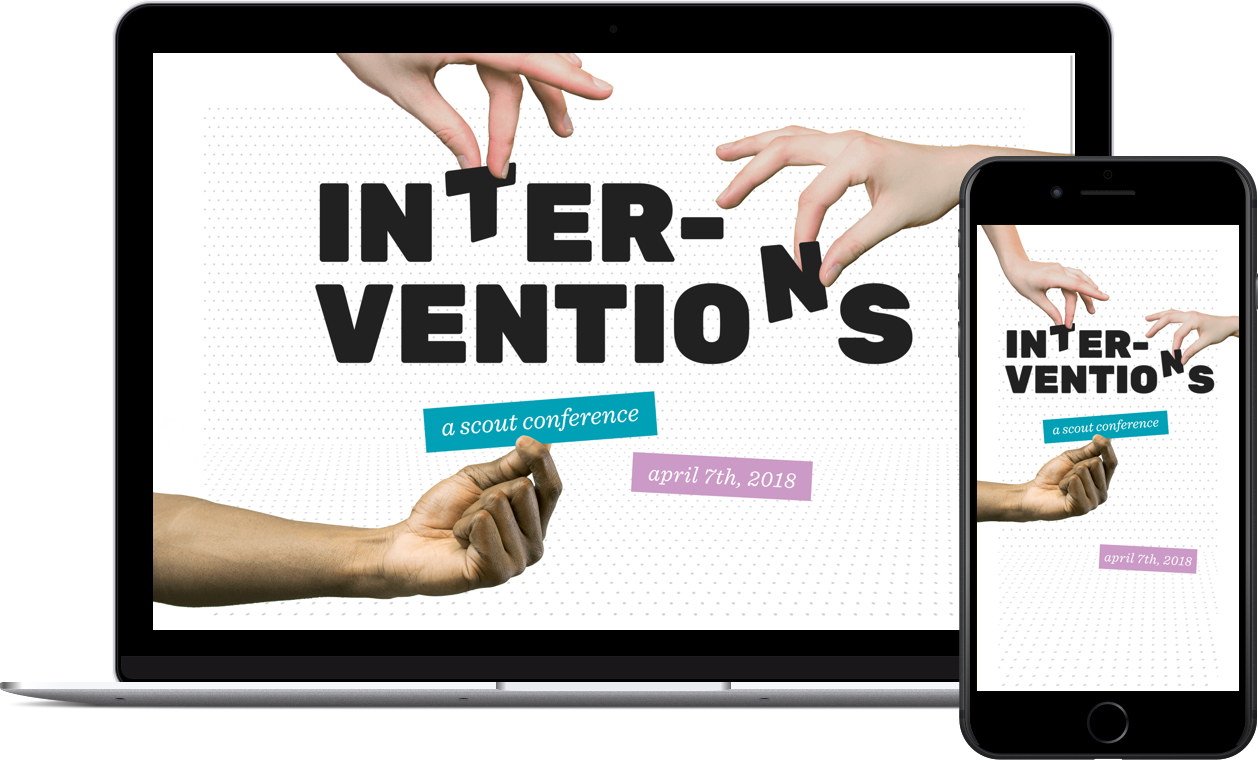
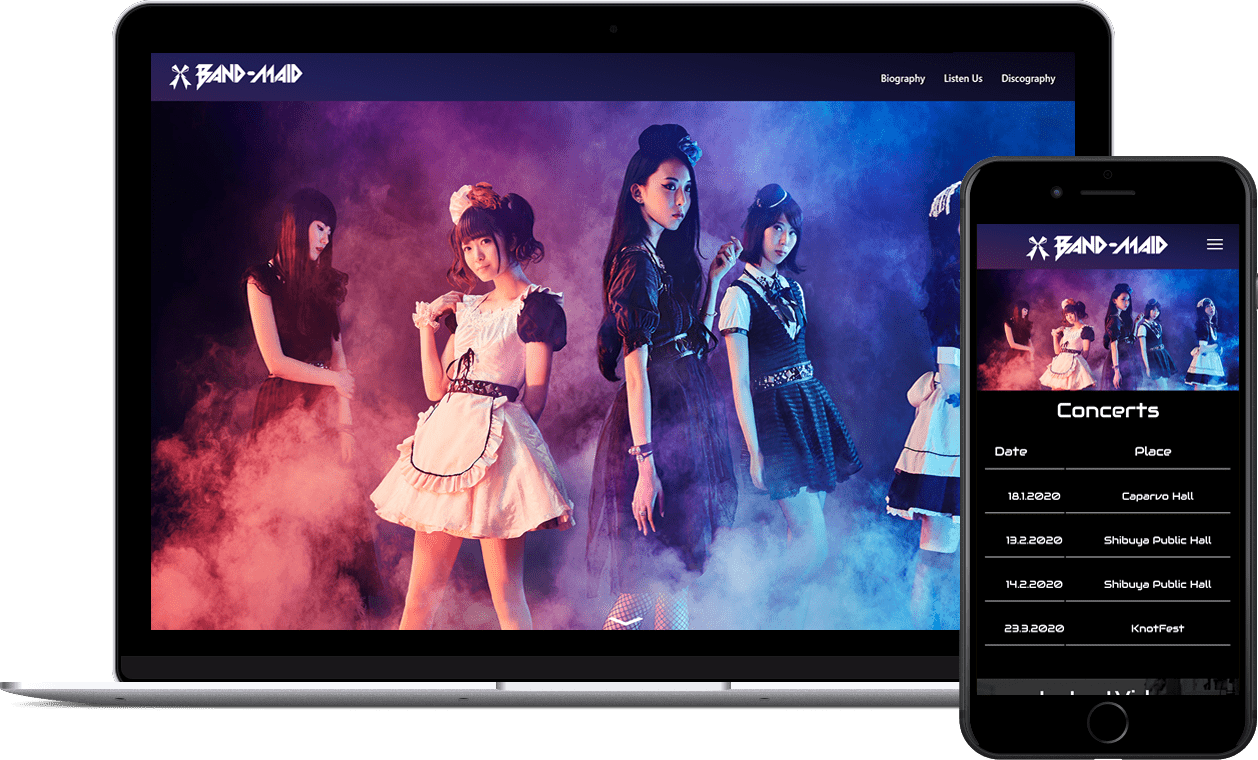
nuevo proyecto

diff --git a/index.html b/index.html
@@ -1,67 +1,95 @@
 <!DOCTYPE html>
 <html lang="en">
-<head>
-  <meta charset="utf-8">
-  <meta name="viewport" content="width=device-width, initial-scale=1, shrink-to-fit=no">
-  <meta name="description" content="">
-  <meta name="author" content="">
+  <head>
+    <meta charset="utf-8" />
+    <meta
+      name="viewport"
+      content="width=device-width, initial-scale=1, shrink-to-fit=no"
+    />
+    <meta name="description" content="" />
+    <meta name="author" content="" />
 
-  <title>Rodriguez lucas | Desarrollador web</title>
-  <link rel="shortcut icon" href="/img/logo.ico" />
-  <link href="css/styles.css" rel="stylesheet">
+    <title>Rodriguez lucas | Desarrollador web</title>
+    <link rel="shortcut icon" href="/img/logo.ico" />
+    <link href="css/styles.css" rel="stylesheet" />
+  </head>
 
-</head>
-
-<body >
-  <div class="container">
-    <header>
-      <img src="/img/logo.png" alt="Rodriguez lucas logo" class="logo">
-      <input class="menu-btn" type="checkbox" id="menu-btn"/>
-      <label class="menu-icon" for="menu-btn"><span class="nav-icon"></span></label> 
-      <ul class="menu" >
-        <li><a onclick="scroll2Proyects('project')">proyectos</a></li>
-        <li><a onclick="scroll2Proyects('contactme')">contactame</a></li>
-        <li><a href="#" target="_blank">curriculum</a></li>
-      </ul> 
-    </header>
+  <body>
+    <div class="container">
+      <header>
+        <img src="/img/logo.png" alt="Rodriguez lucas logo" class="logo" />
+        <input class="menu-btn" type="checkbox" id="menu-btn" />
+        <label class="menu-icon" for="menu-btn"
+          ><span class="nav-icon"></span
+        ></label>
+        <ul class="menu">
+          <li><a onclick="scroll2Proyects('project')">proyectos</a></li>
+          <li><a onclick="scroll2Proyects('contactme')">contactame</a></li>
+          <li><a href="#" target="_blank">curriculum</a></li>
+        </ul>
+      </header>
       <section class="hero">
-        <p> hola me llamo,</p>
+        <p>hola me llamo,</p>
         <h1>Rodriguez Lucas.</h1>
         <h3>Soy un <span>desarrollador backend & frontend.</span></h3>
-        <p>Lorem Ipsum is simply dummy text of the printing and typesetting industry. Lorem Ipsum has been the industry's </p>
+        <p>
+          Estudiante de licenciatura en informática, disfruto aprender nuevas
+          tecnologias y resolver problemas.
+        </p>
       </section>
-  </div>
-  <div  class="middlepart"> 
-    <div class="container">
-      <h2 class="titleproject" id="project">Proyectos</h2>
-      <ul>
-        <li>
-          <div class="card">
-            <img src="/img/mockup.png" alt="" >
-            <div class="text">
-              <div class="title">
-                <h4>Titulo </h4>
-                <a href="https://github.com/" target="_blank"><img src="/img/iconmonstr-github-1.svg" alt="github-link" ></a>
-                <a href="#" target="_blank"><img src="/img/iconmonstr-external-link-thin.svg" alt="github-link" ></a>
-              </div>
-              <p>Descripcion sobre que va a tratar relleno para ver como se adapta la descripcion de este texto en la tarjeta</p>
-             </div>
-            </div>
-        </li>
-      </ul>
     </div>
-  </div>
-<footer>
-  <div class="footer-container">
-    <div class="container" id="contactme">
-      <h3 class="footer-title">contactame</h3>
-      <div class="mail" >
-        <a class="footer-link" href="mailto:ld.fennema@gmail.com?subject=contacto%20por%20paginaweb%20:" ><img src="/img/iconmonstr-email-1.svg" alt="github-link" class="mailto"></a>
-        <p > : ld.fennema@gmail.com</p>
+    <div class="middlepart">
+      <div class="container">
+        <h2 class="titleproject" id="project">Proyectos</h2>
+        <ul>
+          <li>
+            <div class="card">
+              <img src="/img/mockup.png" alt="" />
+              <div class="text">
+                <div class="title">
+                  <h4>Fan page: band maid</h4>
+                  <a
+                    href="https://github.com/FennemaRL/BandMaidFP"
+                    target="_blank"
+                    ><img src="/img/iconmonstr-github-1.svg" alt="github-link"
+                  /></a>
+                  <a
+                    href="https://fennemarl.github.io/BandMaidFP/"
+                    target="_blank"
+                    ><img
+                      src="/img/iconmonstr-external-link-thin.svg"
+                      alt="github-link"
+                  /></a>
+                </div>
+                <p>
+                  Proyecto en React, se consumen las apis de youtube (ultimo
+                  video publicado) y spotify (albumes y tracks) para recaudar
+                  informacion sobre la banda.
+                </p>
+              </div>
+            </div>
+          </li>
+        </ul>
       </div>
     </div>
-  </div>
-</footer>
-</body>
-<script src="javascript/js.js"></script>
+    <footer>
+      <div class="footer-container">
+        <div class="container" id="contactme">
+          <h3 class="footer-title">contactame</h3>
+          <div class="mail">
+            <a
+              class="footer-link"
+              href="mailto:ld.fennema@gmail.com?subject=contacto%20por%20paginaweb%20:"
+              ><img
+                src="/img/iconmonstr-email-1.svg"
+                alt="github-link"
+                class="mailto"
+            /></a>
+            <p>: ld.fennema@gmail.com</p>
+          </div>
+        </div>
+      </div>
+    </footer>
+  </body>
+  <script src="javascript/js.js"></script>
 </html>
